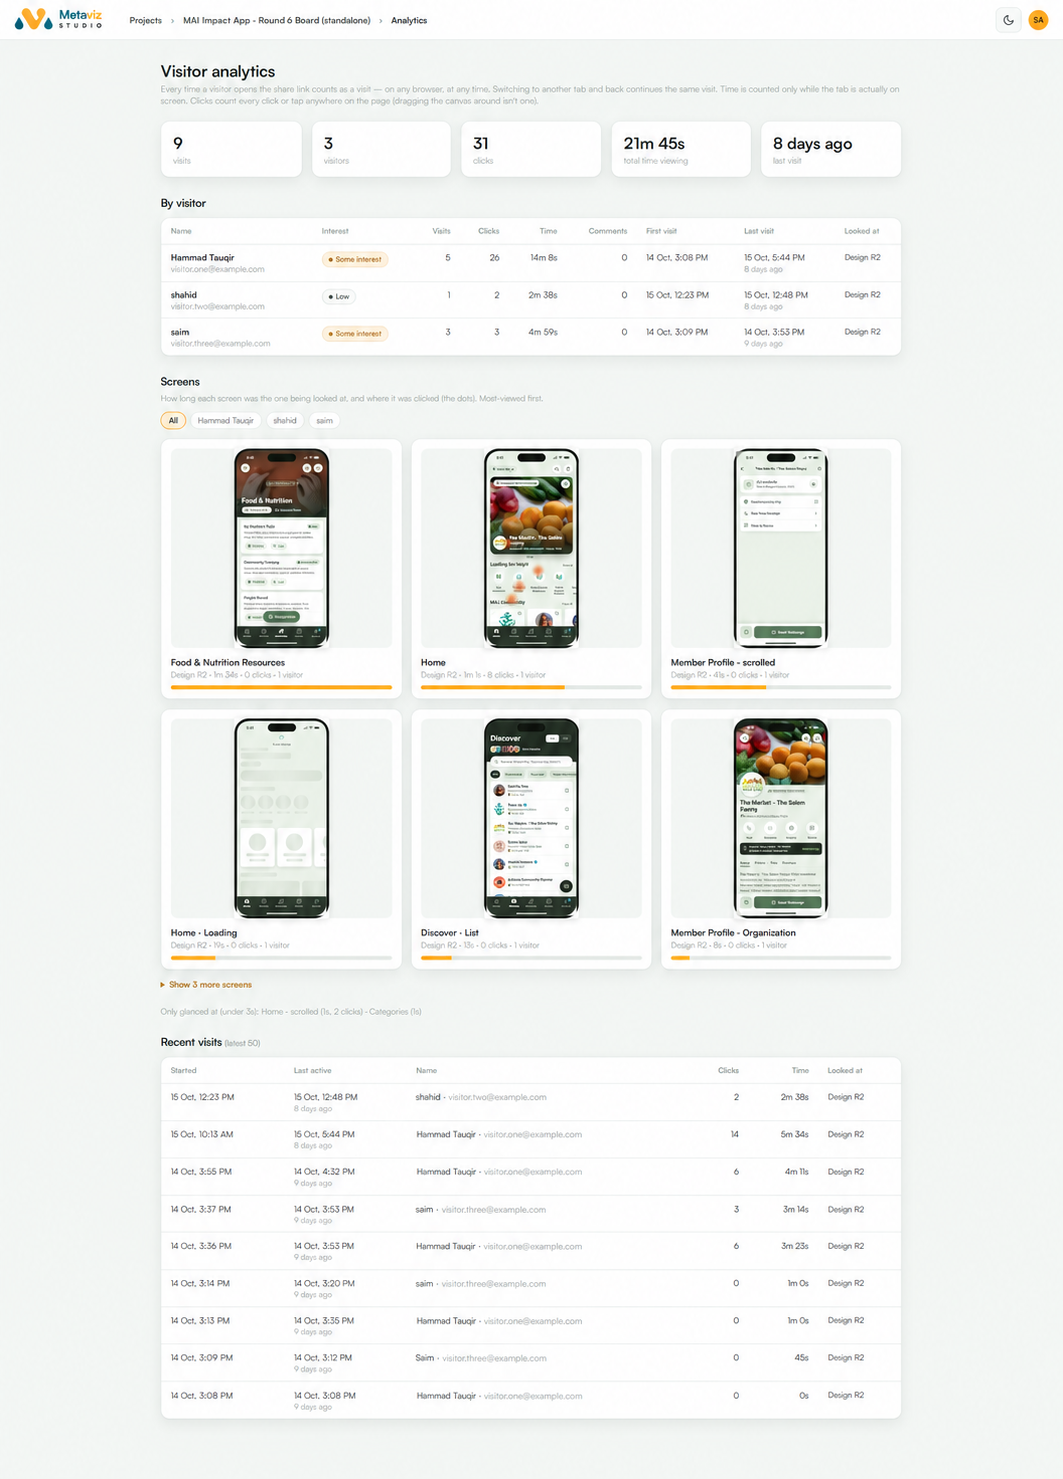
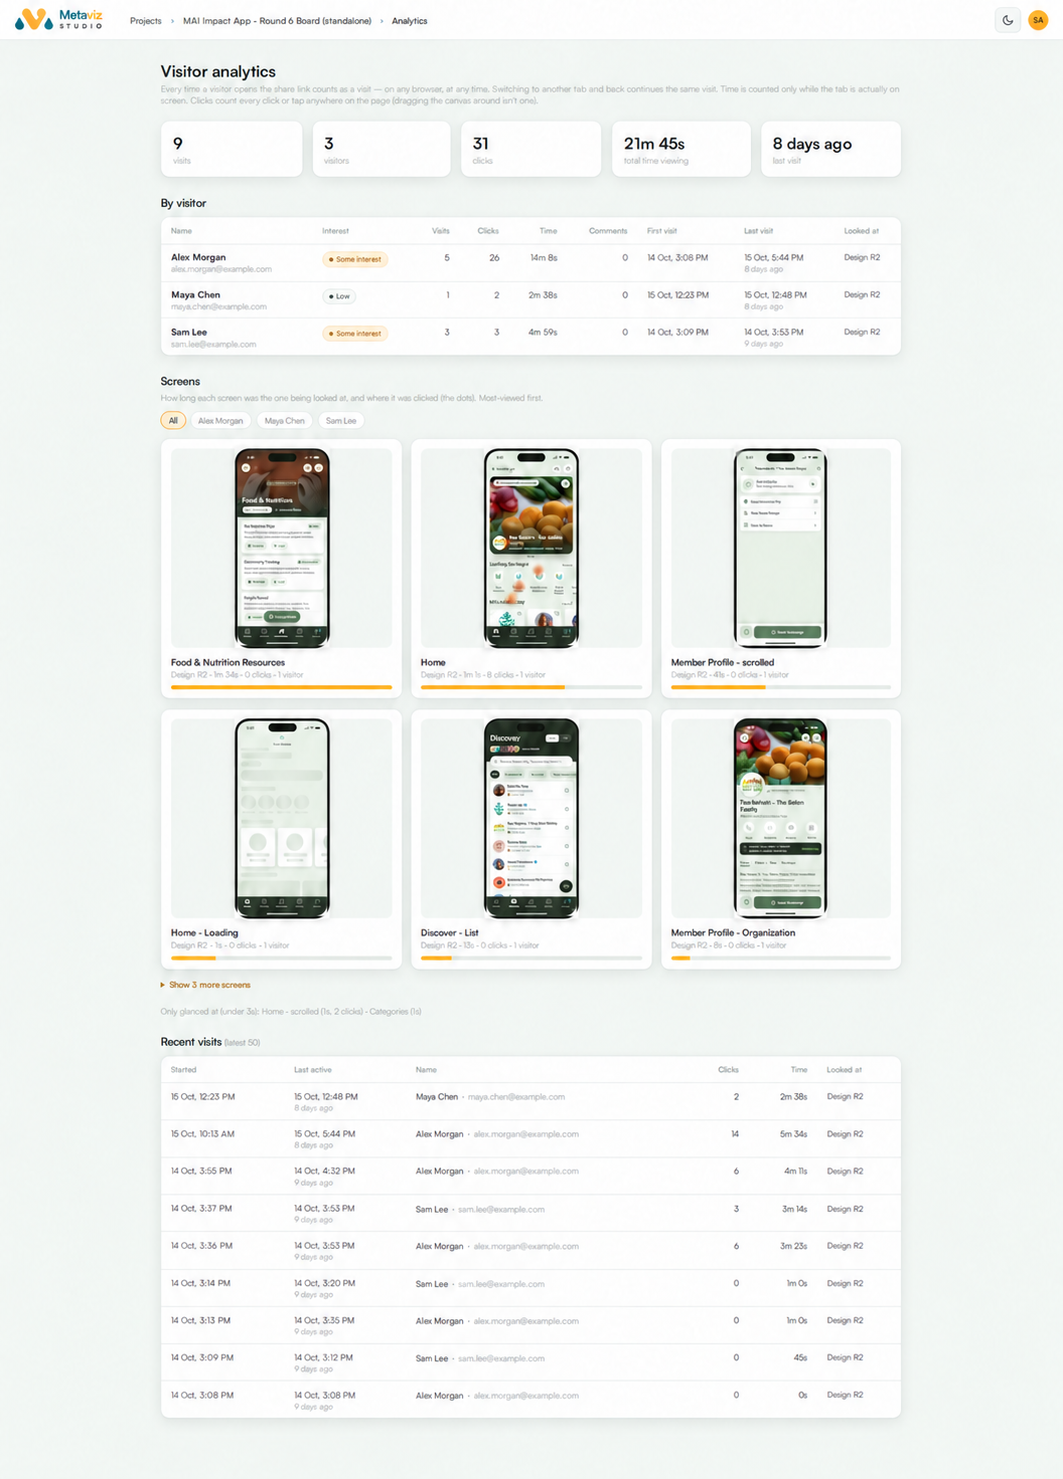
Add AI Voice Receptionist project and How it works section
Adds the AI Receptionist case study, an optional numbered How it works
section on project pages, refreshes the Design Review demo image, and
updates tests.

diff --git a/tests/portfolio.spec.ts b/tests/portfolio.spec.ts
@@ -46,13 +46,13 @@ test("filters include multi-category work and unfinished projects", async ({
   page,
 }) => {
   await page.goto("/projects");
-  await expect(page.locator(".workcard")).toHaveCount(7);
+  await expect(page.locator(".workcard")).toHaveCount(8);
   await expect(page.getByText("Banking Management App")).toHaveCount(0);
   await expect(
     page.getByRole("button", { name: "Mobile", exact: true }),
   ).toHaveCount(0);
   await page.getByRole("button", { name: "Automation", exact: true }).click();
-  await expect(page.locator(".workcard")).toHaveCount(3);
+  await expect(page.locator(".workcard")).toHaveCount(4);
   await expect(page.locator(".progress-status")).toHaveCount(2);
   await page.getByRole("button", { name: "Full Stack", exact: true }).click();
   await expect(page.locator(".workcard")).toHaveCount(3);
@@ -67,7 +67,7 @@ test("filters include multi-category work and unfinished projects", async ({
   await page
     .getByRole("button", { name: "All projects", exact: true })
     .click();
-  await expect(page.locator(".workcard")).toHaveCount(7);
+  await expect(page.locator(".workcard")).toHaveCount(8);
 });
 test("navigation works across routes", async ({ page, isMobile }) => {
   await page.goto("/projects");
@@ -174,6 +174,7 @@ test("contact endpoint validates enquiries", async ({ request }) => {
 });
 test("every project and custom 404 resolve", async ({ page }) => {
   for (const slug of [
+    "ai-voice-receptionist",
     "ai-receptionist",
     "concept-science-academy",
     "polymath-kids",
@@ -433,7 +434,7 @@ test("project archive keeps cards short and links to full details", async ({
   await page.goto("/");
   await page.evaluate(() => document.fonts.ready);
   await expect(page.locator(".workcard")).toHaveCount(0);
-  await expect(page.locator(".feature").first().getByRole("link", { name: "Watch Demo" })).toHaveAttribute(
+  await expect(page.locator(".feature").filter({ has: page.getByRole("heading", { name: "AI Receptionist", exact: true }) }).getByRole("link", { name: "Watch Demo" })).toHaveAttribute(
     "href",
     "/projects/ai-receptionist#demo-video",
   );
@@ -443,7 +444,10 @@ test("project archive keeps cards short and links to full details", async ({
   }
   await navigation.getByRole("link", { name: "Projects" }).click();
   await expect(page).toHaveURL(/\/projects$/);
-  await expect(page.locator(".case-study-grid .workcard")).toHaveCount(7);
+  await expect(page.locator(".case-study-grid .workcard")).toHaveCount(8);
+  const novaCard = page
+    .locator(".case-study-grid .workcard")
+    .filter({ has: page.getByRole("heading", { name: "AI Receptionist", exact: true }) });
   if (testInfo.project.name === "desktop") {
     await expect(
       page.locator(".case-study-grid .workcard").first(),
@@ -453,16 +457,16 @@ test("project archive keeps cards short and links to full details", async ({
     path: testInfo.outputPath("case-studies-grid.png"),
     style: ".site-header, .skip-link { visibility: hidden !important; }",
   });
-  const image = page.locator(".case-study-grid img").first();
+  const image = novaCard.locator("img");
   await expect(image).toBeVisible();
   expect(
     await image.evaluate((el) => (el as HTMLImageElement).naturalWidth),
   ).toBeGreaterThan(0);
   await expect(image).toHaveAttribute("alt", /Frame from the Nova Digital AI Receptionist demo/);
-  const previewBox = await page.locator(".case-study-grid .preview").first().boundingBox();
+  const previewBox = await novaCard.locator(".preview").boundingBox();
   expect(previewBox!.width / previewBox!.height).toBeCloseTo(16 / 9, 1);
   expect(await image.evaluate((element) => getComputedStyle(element).objectFit)).toBe("contain");
-  const watchDemo = page.locator(".case-study-grid .workcard").first().getByRole("link", { name: "Watch Demo" });
+  const watchDemo = novaCard.getByRole("link", { name: "Watch Demo" });
   await expect(watchDemo).toHaveAttribute("href", "/projects/ai-receptionist#demo-video");
   await watchDemo.click();
   await expect(page).toHaveURL(/\/projects\/ai-receptionist#demo-video$/);

diff --git a/data/projects.ts b/data/projects.ts
@@ -23,6 +23,10 @@ export type Project = {
   problem: string;
   solution: string;
   features: (string | { title: string; description: string })[];
+  /** Optional numbered "How it works" steps on the detail page. */
+  howItWorks?: string[];
+  /** Optional steps for the illustrative preview shown when there is no image. */
+  flow?: { label: string; title: string }[];
   technicalHighlights?: string[];
   outcome?: string;
   attribution?: string;
@@ -59,6 +63,66 @@ const defaults = {
   learned: "",
 };
 export const projects: Project[] = [
+  {
+    ...defaults,
+    slug: "ai-voice-receptionist",
+    name: "AI Receptionist for Plumbers & HVAC",
+    subtitle: "AI Calling Agent & Appointment Booking",
+    projectType: "AI Voice Agent · Phone Calls",
+    teaser:
+      "An AI voice agent that answers calls for plumbing businesses, collects the job details and books the appointment straight into Google Calendar.",
+    categories: ["Automation"],
+    context: "Personal project",
+    featured: true,
+    summary:
+      "An AI voice agent that answers calls for plumbing businesses, collects the job details and books the appointment straight into Google Calendar.",
+    stack: [
+      "Retell AI",
+      "n8n",
+      "Docker",
+      "Google Calendar API",
+      "Google Sheets API",
+      "Gmail API",
+      "Webhooks",
+      "Prompt Engineering",
+      "ngrok",
+    ],
+    problem:
+      "Plumbers and HVAC techs miss calls while they're on a job. A missed call usually means the customer calls the next company.",
+    solution:
+      "An AI receptionist (\"Sarah\") picks up every call, day or night. She asks what the problem is, checks the service area, takes the name, phone and address, checks free time slots and books the visit. The owner gets the lead in a Google Sheet and an email right away. Emergencies (burst pipe, flooding, sewage backup) get an URGENT email so the owner calls back first. Gas smell calls get safety instructions and are not booked.",
+    features: [
+      "Answers calls with a natural voice, 24/7",
+      "Detects emergencies from what the caller says",
+      "Checks real availability in Google Calendar and books the slot during the call",
+      "Saves every call to Google Sheets (name, phone, address, issue, urgency, appointment)",
+      "Sends an email for every lead, with an URGENT subject for emergencies",
+      "Call summary written automatically after each call",
+      "Low running cost (around $0.08 per minute of call)",
+    ],
+    howItWorks: [
+      "A customer calls the business number.",
+      "The Retell AI voice agent answers and talks with the caller.",
+      "During the call, custom functions call n8n webhooks.",
+      "n8n checks Google Calendar for free slots and books the visit.",
+      "After the call, n8n saves the lead to Google Sheets and sends a Gmail alert.",
+    ],
+    flow: [
+      { label: "INCOMING CALL", title: "Retell AI voice agent" },
+      { label: "BOOKING", title: "n8n + Google Calendar" },
+      { label: "FOLLOW-UP", title: "Sheets + Gmail alert" },
+    ],
+    visual: "automation",
+    // IMAGE: no screenshot yet, so the illustrative flow preview is shown.
+    // When ready, add a 1600×900 (16:9) image at
+    // public/images/projects/ai-voice-receptionist.png and set:
+    // image: "/images/projects/ai-voice-receptionist.png",
+    // imageAlt: "Short description of what the screenshot shows",
+    // DEMO_VIDEO_URL: replace with the demo video path to show the
+    // "Watch Demo" buttons and video player, e.g.
+    // video: "/videos/ai-voice-receptionist-demo.mp4",
+    video: "",
+  },
   {
     ...defaults,
     slug: "ai-receptionist",

diff --git a/components/visuals.tsx b/components/visuals.tsx
@@ -1,24 +1,28 @@
+import { Fragment } from "react";
 import Image from "next/image";
 import type { Project } from "@/data/projects";
 
+const defaultFlow = [
+  { label: "TRIGGER", title: "New request" },
+  { label: "PROCESS", title: "Classify & prepare" },
+  { label: "REVIEW", title: "Human approval" },
+];
+
 /** Illustrative workflow shown for projects that have no real screenshot yet. */
-function FlowIllustration() {
+function FlowIllustration({ steps = defaultFlow }: { steps?: Project["flow"] }) {
   return (
     <div className="ui automation-ui" aria-hidden="true">
-      <div className="flow-node start">
-        <small>TRIGGER</small>
-        <strong>New request</strong>
-      </div>
-      <i />
-      <div className="flow-node">
-        <small>PROCESS</small>
-        <strong>Classify &amp; prepare</strong>
-      </div>
-      <i />
-      <div className="flow-node end">
-        <small>REVIEW</small>
-        <strong>Human approval</strong>
-      </div>
+      {steps.map((step, index) => (
+        <Fragment key={step.label}>
+          {index > 0 && <i />}
+          <div
+            className={`flow-node${index === 0 ? " start" : index === steps.length - 1 ? " end" : ""}`}
+          >
+            <small>{step.label}</small>
+            <strong>{step.title}</strong>
+          </div>
+        </Fragment>
+      ))}
     </div>
   );
 }
@@ -104,7 +108,7 @@ export function ProjectVisual({
         </>
       ) : (
         <>
-          <FlowIllustration />
+          <FlowIllustration steps={project.flow} />
           <span className="illustration-label">
             Illustrative interface preview
           </span>

diff --git a/app/projects/[slug]/page.tsx b/app/projects/[slug]/page.tsx
@@ -197,6 +197,16 @@ export default async function ProjectPage({ params }: Props) {
                   </li>
                 ))}
               </ul>
+              {project.howItWorks && (
+                <>
+                  <h3>How it works</h3>
+                  <ol className="case-step-list">
+                    {project.howItWorks.map((step) => (
+                      <li key={step}>{step}</li>
+                    ))}
+                  </ol>
+                </>
+              )}
               {project.technicalHighlights && (
                 <>
                   <h3>Technical highlights</h3>

diff --git a/next-env.d.ts b/next-env.d.ts
@@ -1,7 +1,7 @@
 /// <reference types="next" />
 /// <reference types="next/image-types/global" />
-import "./.next/types/routes.d.ts";
-import "./.next/types/root-params.d.ts";
+import "./.next-dev/dev/types/routes.d.ts";
+import "./.next-dev/dev/types/root-params.d.ts";
 
 // NOTE: This file should not be edited
 // see https://nextjs.org/docs/app/api-reference/config/typescript for more information.
